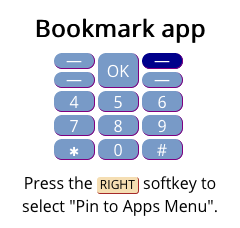
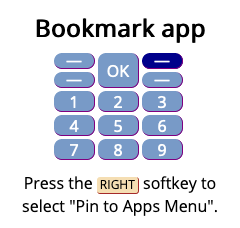
Use 2 instead of zero to cycle schedule.

diff --git a/webapp/es5/NextCaltrain.js b/webapp/es5/NextCaltrain.js
@@ -21,15 +21,13 @@ var HANGUP = 8;
 var ESC = 27;
 var UP = 53;
 var DOWN = 56;
-var SPLAT = 170;
-var POUND = 163;
-var ZERO = 48;
+
 
 var screens = 'hero grid trip about commands'.split(' ');
 var titles = { 'about': 'About Next Caltrain', 'commands': 'Keypad commands' };
 var email = 'next-caltrain@netpress.com';
 
-var hints = [['Set your origin', [4, 6], 'Use [4] and [6] keys to<br/>set your origin station.'], ['Set destination', [7, 9], 'Use [7] and [9] keys to<br/>set destination station.'], ['Select a train', [5, 8], 'Use [5] and [8] keys to<br/>move seletion up or down.'], ['Flip direction', ['c'], 'Press the [CALL] button to<br/>flip the selected stations'], ['Save stations', ['l'], 'Press the [LEFT] softkey to<br/>select "Save Stations".'], ['Bookmark app', ['r'], 'Press the [RIGHT] softkey to<br/>select "Pin to Apps Menu".'], ['Change schedule', ['0'], 'Press [0] to cycle through<br/>available schedules.'], ['Thanks for using<br/> Next Caltrain', `Please send feedback to<br/>&nbsp;<a href="mailto:${email}">${email}</a>.`, 'Note: The cursor (arrow)<br/>is not used by this app,<br/>just move it to the right.']];
+var hints = [['Set your origin', [4, 6], 'Use [4] and [6] keys to<br/>set your origin station.'], ['Set destination', [7, 9], 'Use [7] and [9] keys to<br/>set destination station.'], ['Select a train', [5, 8], 'Use [5] and [8] keys to<br/>move seletion up or down.'], ['Flip direction', ['c'], 'Press the [CALL] button to<br/>flip the selected stations'], ['Save stations', ['l'], 'Press the [LEFT] softkey to<br/>select "Save Stations".'], ['Bookmark app', ['r'], 'Press the [RIGHT] softkey to<br/>select "Pin to Apps Menu".'], ['Change schedule', [2], 'Press [2] to cycle through<br/>available schedules.'], ['Thanks for using<br/> Next Caltrain', `Please send feedback to<br/>&nbsp;<a href="mailto:${email}">${email}</a>.`, 'Note: The cursor (arrow)<br/>is not used by this app,<br/>just move it to the right.']];
 
 var hintIndex = -1;
 
@@ -81,8 +79,8 @@ var NextCaltrain = function () {
       if (Array.isArray(hints[hintIndex][1])) {
         document.getElementById('mini-keypad').style['display'] = 'flex';
         document.getElementById('hint-center').style['display'] = 'none';
-        for (var i = 4; i < 18; i++) {
-          var key = i < 10 ? i : ['l', 'r', 'c', 'o', 'h', '*', '0', '#'][i - 10];
+        for (var i = 1; i < 15; i++) {
+          var key = i < 10 ? i : ['l', 'r', 'c', 'o', 'h'][i - 10];
           var cls = hints[hintIndex][1].indexOf(key) == -1 ? 'default' : 'selected';
           document.getElementById(`k${key}`).className = cls;
         }
@@ -340,6 +338,10 @@ var NextCaltrain = function () {
           e.preventDefault();
         } else if (e.key === 'Call') {
           code = 'flip';
+        } else if (e.key === '2') {
+          code = 'cycle';
+
+          e.preventDefault();
         } else if (code === OK) {
           e.preventDefault();
         } else if (code === 38) {
@@ -398,9 +400,6 @@ var NextCaltrain = function () {
           NextCaltrain.displayScreen('hero');
         } else if (code === OK) {
           NextCaltrain.displayScreen('grid');
-        } else if (code === ZERO || code === 39) {
-          schedule.next();
-          offset = null;
         } else if (code === UP) {
           offset--;
         } else if (code === DOWN) {
@@ -420,6 +419,9 @@ var NextCaltrain = function () {
         } else if (code === 'flip') {
           offset = null;
           prefs.flipStations();
+        } else if (code === 'cycle') {
+          schedule.next();
+          offset = null;
         } else {
           return;
         }

diff --git a/src/NextCaltrain.js b/src/NextCaltrain.js
@@ -15,9 +15,9 @@ const HANGUP = 8;
 const ESC = 27;
 const UP = 53;
 const DOWN = 56;
-const SPLAT = 170;
-const POUND = 163;
-const ZERO = 48;
+// const SPLAT = 170;
+// const POUND = 163;
+// const ZERO = 48;
 
 const screens = 'hero grid trip about commands'.split(' ');
 const titles = {'about':'About Next Caltrain', 'commands':'Keypad commands'};
@@ -36,8 +36,8 @@ const hints = [
    'Press the [LEFT] softkey to<br/>select "Save Stations".'],
   ['Bookmark app', ['r'],
    'Press the [RIGHT] softkey to<br/>select "Pin to Apps Menu".'],
-  ['Change schedule', ['0'],
-   'Press [0] to cycle through<br/>available schedules.'],
+  ['Change schedule', [2],
+   'Press [2] to cycle through<br/>available schedules.'],
   ['Thanks for using<br/> Next Caltrain',
    `Please send feedback to<br/>&nbsp;<a href="mailto:${email}">${email}</a>.`,
    'Note: The cursor (arrow)<br/>is not used by this app,<br/>just move it to the right.']];
@@ -87,8 +87,8 @@ class NextCaltrain {
     if (Array.isArray(hints[hintIndex][1])) {
       document.getElementById('mini-keypad').style['display'] = 'flex';
       document.getElementById('hint-center').style['display'] = 'none';
-      for (let i = 4; i < 18; i++) {
-        let key = (i < 10) ? i : ['l','r','c','o','h','*','0','#'][i - 10];
+      for (let i = 1; i < 15; i++) {
+        let key = (i < 10) ? i : ['l','r','c','o','h'][i - 10];
         let cls = hints[hintIndex][1].indexOf(key) == -1 ? 'default' : 'selected';
         document.getElementById(`k${key}`).className = cls;
       }
@@ -331,6 +331,10 @@ class NextCaltrain {
         e.preventDefault();
       } else if (e.key === 'Call') {
         code = 'flip';
+      } else if (e.key === '2') {
+        code = 'cycle';
+        // Catch 2 to stifle screen lock.
+        e.preventDefault();
       } else if (code === OK) {
         // Catch OK to stifle fullscreen exit.
         e.preventDefault();
@@ -350,7 +354,7 @@ class NextCaltrain {
       // Simulate EXIT from fullscreen mode.
       NextCaltrain.displayScreen('hero');
     } else if (code === 'prefs') {
-      // DIsplay the 'Save stations' confirmation.
+      // Display the 'Save stations' confirmation.
       let confirmation = ['Save', (prefs.flipped ? prefs.destin : prefs.origin), 'as morning and',
         (prefs.flipped ? prefs.origin : prefs.destin), 'as evening default stations?'].join(' ');
       if (confirm(confirmation)) prefs.saveStops();
@@ -401,9 +405,6 @@ class NextCaltrain {
         NextCaltrain.displayScreen('hero');
       } else if (code === OK) {
         NextCaltrain.displayScreen('grid');
-      } else if (code === ZERO || code === 39) { // # or ->
-        schedule.next();
-        offset = null;
       } else if (code === UP) {
         offset--;
       } else if (code === DOWN) {
@@ -423,6 +424,10 @@ class NextCaltrain {
       } else if (code === 'flip') {
         offset = null;
         prefs.flipStations();
+      } else if (code === 'cycle') {
+        // clearTimeout(countdown);
+        schedule.next();
+        offset = null;
       } else {
         return;
       }

diff --git a/webapp/index.html b/webapp/index.html
@@ -55,22 +55,22 @@
           <div class="keycol">
             <div id="kl">—</div>
             <div id="kc">—</div>
+            <div id="k1">1</div>
             <div id="k4">4</div>
             <div id="k7">7</div>
-            <div id="k*">&#10033;</div>
           </div>
           <div class="keycol">
             <div id="ko">OK</div>
+            <div id="k2">2</div>
             <div id="k5">5</div>
             <div id="k8">8</div>
-            <div id="k0">0</div>
           </div>
           <div class="keycol">
             <div id="kr">—</div>
             <div id="kh">—</div>
+            <div id="k3">3</div>
             <div id="k6">6</div>
             <div id="k9">9</div>
-            <div id="k#">#</div>
           </div>
         </div>
         <div id="hint-below" class="hint"></div>
@@ -148,24 +148,21 @@
         <button onclick="NextCaltrain.press(49)">1</button>
         <button onclick="NextCaltrain.press(52)">4</button>
         <button onclick="NextCaltrain.press(55)">7</button>
-        <button onclick="NextCaltrain.press(37)">&#10033;</button>
       </div>
       <div class="keycol">
         <button onclick="NextCaltrain.press(53)" class="arrow">&#9650;</button>
         <button onclick="NextCaltrain.press(13)" class="ok">OK</button>
         <button onclick="NextCaltrain.press(56)" class="arrow">&#9660;</button>
-        <button onclick="NextCaltrain.press(49)">2</button>
+        <button onclick="NextCaltrain.press('cycle')">2</button>
         <button onclick="NextCaltrain.press(53)">5</button>
         <button onclick="NextCaltrain.press(56)">8</button>
-        <button onclick="NextCaltrain.press(48)">0</button>
       </div>
       <div class="keycol">
-        <button onclick="NextCaltrain.press('')" class="phone"><div class="rounded upper-right"></div></button>
+        <button onclick="NextCaltrain.press('rsk')" class="phone"><div class="rounded upper-right"></div></button>
         <button onclick="NextCaltrain.press(95)" class="phone"><div class="rounded lower-right"></div></button>
         <button onclick="NextCaltrain.press(50)">3</button>
         <button onclick="NextCaltrain.press(54)">6</button>
         <button onclick="NextCaltrain.press(57)">9</button>
-        <button onclick="NextCaltrain.press(39)">#</button>
       </div>
     </div>
   </div><script type="text/javascript">

diff --git a/README.md b/README.md
@@ -5,10 +5,12 @@ The Alcatel `GO FLIP` and `SMARTFLIP` phones run on `KaiOS` which incorporates a
 
 | Targeted Phones   | Model | OS          | Browser    | Javascript | Full-Screen |
 | ----------------- | ------|------------ | ---------- | ---------- | ----------- |
-| Alcatel GO FLIP   | 4044O | KaiOS 1.0   | Firefox 37 | ES 2015    | No          |
-| Alcatel SMARTFLIP | 4052R | KaiOS 2.5.2 | Firefox 48 | ES 2016    | Yes         |
 | Nokia 2720 Flip   | 2720  | KaiOS 2.5.2 | Firefox 48 | ES 2016    | Yes         |
-| Nokia 8110        | 8110  | KaiOS 2.5.2 | Firefox 48 | ES 2016    | Yes         |
+| Alcatel SMARTFLIP | 4052R | KaiOS 2.5.2 | Firefox 48 | ES 2016    | Yes         |
+| Nokia 8110        | 8110  | KaiOS 2.5.1 | Firefox 48 | ES 2016    | Yes         |
+| Alcatel GO FLIP   | 4044O | KaiOS 1.0   | Firefox 37 | ES 2015    | No          |
+
+Note: KaiOS 3.0 phones will use Firefox 78 with ES 2018 support.
 
 ## History and Goals
 
